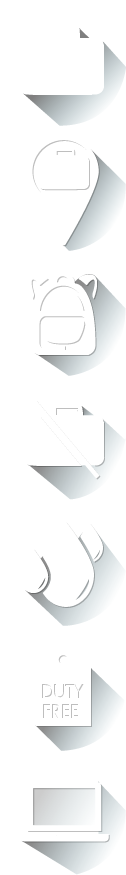
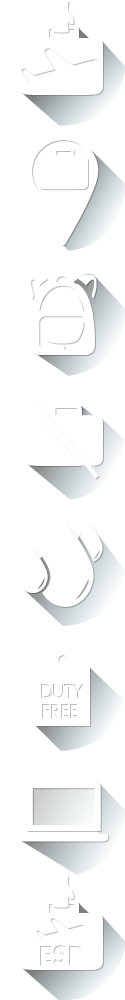
Fix, bug de InfoPage con zoom out muy grande. Arreglo de imagenes varias.

diff --git a/content/contenidos.css b/content/contenidos.css
@@ -50,22 +50,22 @@
 #info_equipaje_mano .img-contenido { background-image: url('images/contenidos/images_politica_equipaje_mano.png'); }
 
 #subtitle_franquicia 						.title .img { background-position: 0 0;}
-#subtitle_franquicia_espana					.title .img { background-position: 0 0;}
 #subtitle_ubicacion_equipaje 				.title .img{background-position: 0 -125px;}
 #subtitle_accesorio_personal 				.title .img{background-position: 0 -250px;}
 #subtitle_articulos_restringidos 			.title .img{background-position: 0 -375px;}
 #subtitle_liquidos_geles 					.title .img{background-position: 0 -500px;}
 #subtitle_duty_free							.title .img{background-position: 0 -625px;}
 #subtitle_equipos_electronicos				.title .img{background-position: 0 -750px;}
+#subtitle_franquicia_espana					.title .img{background-position: 0 -875px;}
 
 #subtitle_franquicia.collapsed				.title .img{background-position: 0 0;}
-#subtitle_franquicia_espana					.title .img{background-position: 0 0;}
 #subtitle_ubicacion_equipaje.collapsed 		.title .img{background-position: 0 -40px;}
 #subtitle_accesorio_personal.collapsed 		.title .img{background-position: 0 -80px;}
 #subtitle_articulos_restringidos.collapsed 	.title .img{background-position: 0 -120px;}
 #subtitle_liquidos_geles.collapsed 			.title .img{background-position: 0 -160px;}
 #subtitle_duty_free.collapsed 				.title .img{background-position: 0 -200px;}
 #subtitle_equipos_electronicos.collapsed 	.title .img{background-position: 0 -240px;}
+#subtitle_franquicia_espana.collapsed		.title .img{background-position: 0 -280px;}
 
 #img_equipaje_mano{ width: 200px;height: 250px;background-position: 0 0;}
 #img_franquicia_equipaje_a {width:600px;background-position:0 -200px;}
@@ -116,10 +116,12 @@
 #subtitle_equipamiento_deportivo 				.title .img { background-position: 0 0;}
 #subtitle_instrumentos_musicales 				.title .img {background-position: 0 -125px;}
 #subtitle_equipaje_voluminoso 					.title .img {background-position: 0 -250px;}
+#subtitle_equipaje_voluminoso_espana			.title .img {background-position: 0 -375px;}
 
 #subtitle_equipamiento_deportivo.collapsed		.title .img { background-position: 0 0;}
 #subtitle_instrumentos_musicales.collapsed 		.title .img {background-position: 0 -40px;}
 #subtitle_equipaje_voluminoso.collapsed 		.title .img {background-position: 0 -80px;}
+#subtitle_equipaje_voluminoso_espana.collapsed	.title .img {background-position: 0 -120px;}
 
 #image_equipaje_deportivo 	{margin: 0;background-position: 0px 0px;}
 #image_equipaje_musical 	{height: 340px;background-position: 0px -200px;}

diff --git a/info_page.html b/info_page.html
@@ -3,6 +3,7 @@
 <html lang="en">
 <head>
 	<meta http-equiv="Content-Type" content="text/html; charset=UTF-8">
+	<meta name="viewport" content="initial-scale=1, maximum-scale=1">
 
 	<title>Boliviana de Aviaci&oacute;n</title>
 	<link rel="icon" href="content/images/icon.png" type="image/x-icon">
